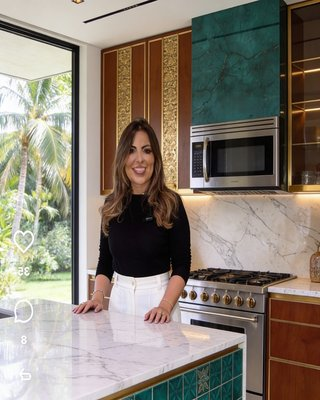
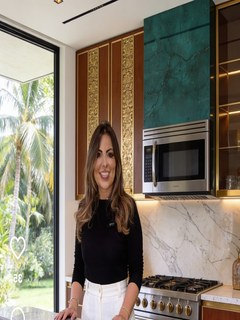
Fix footer image + make Alexandra photo bigger and clearer

diff --git a/index.html b/index.html
@@ -282,7 +282,7 @@ footer{background:var(--dark);padding:4rem 6%;display:grid;grid-template-columns
     <span class="logo">HIG <span>Negócios Imob.</span></span>
     <p>Especialistas em imóveis de alto padrão no Vale do Paraíba, São Paulo. Conectando você ao lugar onde quer viver.</p>
     <div style="display:flex;align-items:center;gap:1rem;margin-top:1.4rem">
-      <img src="images/agent_footer.jpg" alt="Alexandra Higashi" style="width:80px;height:100px;object-fit:cover;object-position:center 10%;border:1px solid rgba(154,107,47,.3)">
+      <img src="images/agent_footer.jpg" alt="Alexandra Higashi" style="width:120px;height:150px;object-fit:cover;object-position:center 5%;border:1px solid rgba(154,107,47,.4)">
       <div>
         <p style="font-family:'Cormorant Garamond',serif;font-size:1rem;color:#fff;letter-spacing:.06em;margin:0">Alexandra Higashi</p>
         <p style="font-size:.7rem;letter-spacing:.12em;text-transform:uppercase;color:#c9a96e;margin:.2rem 0 0">Corretora · CRECI-SP</p>
